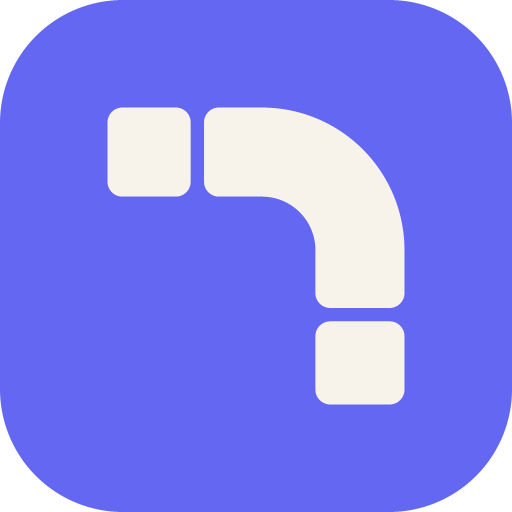
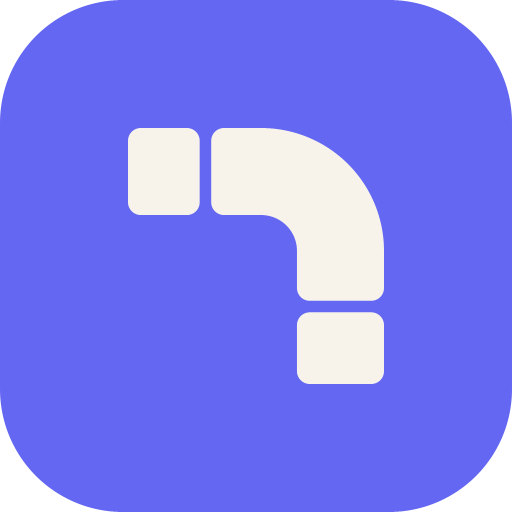
Rotation that holds still, a header that gets out of the way
THE ROTATION ZOOMED BECAUSE THE SCALE WAS BEING RECOMPUTED EVERY FRAME.
`project` fits a scene by measuring what it occupies — right for a static
drawing, wrong for one you can turn. As the object rotated its projected
box changed shape, so the fitted scale changed with it, and the drawing
appeared to zoom and lurch under the finger.

The isometric now supplies its own extent: the object's bounding SPHERE,
which by definition no rotation can change. One scale at every angle, only
the object turns. Asserted — check-draw compares the scale across nine
yaws per fitting and requires a spread under 1e-9.

The price is fill: a 12 m riser sweeps its own length horizontally as it
spins, so the frame has to hold that at all times, and at rest it fills
52% rather than 70%. The fill check now allows the isometric less than the
other two views, with the reason written next to the number. A drawing
that sits still and reads slightly small beats one that lurches.

ROTATION STOPPED HALFWAY because yaw was clamped to a 120° arc and a
single thumb-swipe crossed the whole of it. Yaw wraps now — spinning
about the vertical axis is a turntable and every angle of it is a real
view. Pitch stays bounded and that is deliberate: at 0° the eye is level
and every horizontal face collapses to a line; past 90° the object is
upside down.

THE STICKY HEADER NOW HIDES ON THE WAY DOWN AND RETURNS ON THE WAY UP.
A sticky bar is a standing tax on the viewport — whatever it costs, it
[…]

Changed region(s): [[0.1875, 0.1875, 0.8125, 0.8125]]

diff --git a/lib/draw/iso.ts b/lib/draw/iso.ts
@@ -1,5 +1,14 @@
 import type { Fitting } from "../duct/types";
-import { type Dim, type Pt, type Role, type Scene, type Shape, deg, poly } from "./scene";
+import {
+  type Bounds,
+  type Dim,
+  type Pt,
+  type Role,
+  type Scene,
+  type Shape,
+  deg,
+  poly,
+} from "./scene";
 import type { Label } from "./blueprint";
 
 /* The isometric view — the fitting as an object rather than as a drawing.
@@ -40,14 +49,22 @@ type P3 = [number, number, number];
 export const CAMERA = {
   /** True isometric, and where Reset returns to. */
   home: { yaw: 45, pitch: 30 },
-  yaw: { min: -15, max: 105 },
-  pitch: { min: 8, max: 62 },
+  /* PITCH IS CLAMPED, YAW IS NOT. Yaw was clamped to a 120° arc and a single
+   * thumb-swipe crossed the whole of it, so the object stopped dead halfway
+   * through the gesture — reported as "rotation is stopping halfway". Spinning
+   * about the vertical axis is a turntable and every angle of it is a real
+   * view of the object, so it wraps instead.
+   *
+   * Pitch is a different case and stays bounded: at 0° the eye is level with
+   * the object and every horizontal face collapses to a line, and past 90° you
+   * are looking at it upside down. Neither is a drawing anybody wants. */
+  pitch: { min: 6, max: 84 },
 } as const;
 
 export type Camera = { yaw: number; pitch: number };
 
 export const clampCamera = ({ yaw, pitch }: Camera): Camera => ({
-  yaw: Math.min(CAMERA.yaw.max, Math.max(CAMERA.yaw.min, yaw)),
+  yaw: ((yaw % 360) + 360) % 360,
   pitch: Math.min(CAMERA.pitch.max, Math.max(CAMERA.pitch.min, pitch)),
 });
 
@@ -100,6 +117,9 @@ type Face = { pts: P3[]; role: Role };
  */
 function paint(faces: Face[]): Shape[] {
   const { project, view } = lens;
+  /* Remember what this scene occupies in MODEL space, so `fitOf` can hand
+   * `project` an extent that does not move when the camera does. */
+  lastFaces = faces;
   return faces
     .map((f) => ({
       f,
@@ -109,6 +129,46 @@ function paint(faces: Face[]): Shape[] {
     }))
     .sort((a, b) => a.depth - b.depth)
     .map(({ f }) => poly(f.pts.map(project), f.role));
+}
+
+let lastFaces: Face[] = [];
+
+/**
+ * The object's bounding SPHERE, projected — a fit extent that is the same at
+ * every camera angle.
+ *
+ * A rotation moves points around the model's centre without changing their
+ * distance from it, so every projected point stays inside a circle of that
+ * radius about the projected centre. Fitting to that circle rather than to the
+ * scene's own box is what stops the drawing zooming and jumping while it turns.
+ *
+ * Slightly conservative — the object never quite fills the frame the way a
+ * box-fit would — and that is the price of a scale that holds still.
+ */
+function fitOf(): Bounds | undefined {
+  if (lastFaces.length === 0) return undefined;
+  let minX = Infinity;
+  let minY = Infinity;
+  let minZ = Infinity;
+  let maxX = -Infinity;
+  let maxY = -Infinity;
+  let maxZ = -Infinity;
+  for (const f of lastFaces) {
+    for (const [x, y, z] of f.pts) {
+      if (x < minX) minX = x;
+      if (x > maxX) maxX = x;
+      if (y < minY) minY = y;
+      if (y > maxY) maxY = y;
+      if (z < minZ) minZ = z;
+      if (z > maxZ) maxZ = z;
+    }
+  }
+  if (!Number.isFinite(minX)) return undefined;
+  const centre: P3 = [(minX + maxX) / 2, (minY + maxY) / 2, (minZ + maxZ) / 2];
+  const r =
+    Math.hypot(maxX - minX, maxY - minY, maxZ - minZ) / 2 || Math.max(1e-6, maxX - minX) / 2;
+  const [cx, cy] = lens.project(centre);
+  return { minX: cx - r, maxX: cx + r, minY: cy - r, maxY: cy + r };
 }
 
 const quad = (a: P3, b: P3, c: P3, d: P3, role: Role): Face => ({ pts: [a, b, c, d], role });
@@ -220,6 +280,14 @@ export function isometric(f: Fitting, L: Label, camera: Camera = CAMERA.home): S
   /* Set the lens once, here, before any helper runs. Clamped rather than
    * trusted: the caller is a drag handler and a drag has no natural limits. */
   lens = projector(clampCamera(camera));
+  lastFaces = [];
+  const scene = build(f, L);
+  /* Attach the camera-independent extent AFTER building, because it is
+   * measured from the faces the build produced. */
+  return { ...scene, fit: fitOf() };
+}
+
+function build(f: Fitting, L: Label): Scene {
   switch (f.kind) {
     case "straight": {
       const { w, h, l } = f;

diff --git a/components/AppHeader.tsx b/components/AppHeader.tsx
@@ -1,5 +1,6 @@
 import type { ReactNode } from "react";
 import SiteNav, { type NavKey } from "./SiteNav";
+import StickyHeader from "./StickyHeader";
 import ThemeToggle from "./ThemeToggle";
 import Wordmark from "./Wordmark";
 
@@ -27,38 +28,45 @@ import Wordmark from "./Wordmark";
  * paragraph. This is not "the mark without its tile" — the tile IS the mark's
  * home; see scripts/mark.mjs.
  *
- * NOT STICKY BELOW `lg`. Sticky was given to every page for consistency and on
- * a phone that was the wrong trade: the calculator's header is two rows, and
- * pinning ~110px of a 844px screen for the whole session to keep a project name
- * visible is a bad bargain on the surface with the least room. Desktop keeps it,
- * where a 56px bar against 900px costs nothing.
+ * IT HIDES ON THE WAY DOWN AND COMES BACK ON THE WAY UP — see StickyHeader.
+ * A sticky bar is a standing tax on the viewport, charged at every scroll
+ * position for the whole session, and on the calculator it is two rows. Rather
+ * than choose between keeping the nav and seeing the content, it gets out of
+ * the way while you read and returns on a small upward flick.
  */
 export default function AppHeader({
   current,
   labels,
   right,
   children,
+  held = false,
 }: {
   current: NavKey;
   labels?: Partial<Record<NavKey, string>>;
   right?: ReactNode;
   /** Page-specific chrome, on its own row under the identity row. */
   children?: ReactNode;
+  /** Hold it on screen — a disclosure inside it is open. */
+  held?: boolean;
 }) {
   return (
-    <header className="border-b-[1.5px] border-line bg-page/95 backdrop-blur lg:sticky lg:top-0 lg:z-40 print:hidden">
-      <div className="mx-auto w-full max-w-canvas px-5 md:px-8">
-        {/* Fixed height, so no page's `right` slot can move the logo. */}
-        <div className="flex h-14 items-center gap-x-4">
-          <Wordmark size="sm" compact />
-          <SiteNav current={current} labels={labels} />
-          <div className="ml-auto flex shrink-0 items-center gap-2">
-            {right}
-            <ThemeToggle />
+    <StickyHeader className="print:hidden" held={held}>
+      <header className="border-b-[1.5px] border-line bg-page/95 backdrop-blur">
+        <div className="mx-auto w-full max-w-canvas px-5 md:px-8">
+          {/* Fixed height, so no page's `right` slot can move the logo. 48px
+            * rather than 56: it is one row of 38px artwork and 32px pills, and
+            * every pixel of a sticky bar is charged on every scroll position. */}
+          <div className="flex h-12 items-center gap-x-4">
+            <Wordmark size="sm" compact />
+            <SiteNav current={current} labels={labels} />
+            <div className="ml-auto flex shrink-0 items-center gap-2">
+              {right}
+              <ThemeToggle />
+            </div>
           </div>
+          {children && <div className="border-t-[1.5px] border-rule py-2.5">{children}</div>}
         </div>
-        {children && <div className="border-t-[1.5px] border-rule py-3">{children}</div>}
-      </div>
-    </header>
+      </header>
+    </StickyHeader>
   );
 }

diff --git a/components/StickyHeader.tsx b/components/StickyHeader.tsx
@@ -1,0 +1,81 @@
+"use client";
+
+import { useEffect, useRef, useState } from "react";
+
+/* A header that gets out of the way.
+ *
+ * A sticky header is a standing tax on the viewport: whatever it costs, it
+ * costs on every scroll position for the whole session. On the calculator that
+ * was two rows, and the complaint was fair — "barely viewable the content".
+ *
+ * The usual fixes are both bad. Making it static means losing the project name
+ * and the nav the moment you scroll. Making it shorter helps a little and still
+ * charges rent forever.
+ *
+ * So it hides when you scroll DOWN and comes back the instant you scroll UP —
+ * the pattern every mobile browser uses for its own chrome, for exactly this
+ * reason. Reading costs nothing; wanting the header back costs one small
+ * upward flick rather than a journey to the top of the page.
+ *
+ * WHY A TRANSFORM AND NOT `display`. The header stays in the layout at all
+ * times and only translates out of view, so nothing below it ever reflows.
+ * Toggling its presence would move the whole document by the header's height
+ * twice per scroll direction change, which is the jitter this is meant to end.
+ *
+ * Deliberately not hidden while a disclosure inside it is open — see `held`.
+ */
+export default function StickyHeader({
+  children,
+  className = "",
+  /** Keep it on screen regardless: a menu is open inside it. */
+  held = false,
+}: {
+  children: React.ReactNode;
+  className?: string;
+  held?: boolean;
+}) {
+  const [hidden, setHidden] = useState(false);
+  const lastY = useRef(0);
+
+  useEffect(() => {
+    lastY.current = window.scrollY;
+
+    /* A threshold, because a scroll event fires for a two-pixel wobble and a
+     * header that flickers on trackpad noise is worse than one that never
+     * moves. 8px is below the smallest deliberate scroll and above the noise. */
+    const THRESHOLD = 8;
+    /* Never hide near the top: there is nothing to gain, and the header
+     * disappearing as the page begins reads as a glitch. */
+    const FREE = 120;
+
+    let frame = 0;
+    const onScroll = () => {
+      if (frame) return;
+      frame = requestAnimationFrame(() => {
+        frame = 0;
+        const y = window.scrollY;
+        const dy = y - lastY.current;
+        if (Math.abs(dy) < THRESHOLD) return;
+        lastY.current = y;
+        setHidden(y > FREE && dy > 0);
+      });
+    };
+
+    window.addEventListener("scroll", onScroll, { passive: true });
+    return () => {
+      window.removeEventListener("scroll", onScroll);
+      if (frame) cancelAnimationFrame(frame);
+    };
+  }, []);
+
+  const away = hidden && !held;
+
+  return (
+    <div
+      className={`sticky top-0 z-40 transition-transform duration-200 ease-out ${className}`}
+      style={{ transform: away ? "translateY(-100%)" : "translateY(0)" }}
+    >
+      {children}
+    </div>
+  );
+}

diff --git a/lib/draw/scene.ts b/lib/draw/scene.ts
@@ -60,6 +60,21 @@ export type Scene = {
    * geometry lands on top of a dimension whenever the drawing scales down.
    */
   captions?: { at: Pt; text: string; anchor?: Anchor; dy?: number }[];
+  /**
+   * A fixed extent to fit to, instead of the scene's own bounding box.
+   *
+   * WHY A ROTATING DRAWING NEEDED THIS. `project` normally measures what the
+   * scene occupies and scales it to fill the frame. That is right for a static
+   * drawing and wrong for one you can turn: as the object rotates its
+   * projected box changes shape, so the fitted scale changes with it, and the
+   * drawing appears to zoom in and out and jump about while you drag. Reported
+   * as "while rotating it's getting zoomed and losing shape".
+   *
+   * The isometric supplies its own extent — the object's bounding SPHERE, which
+   * by definition does not change with the camera — so the scale is constant at
+   * every angle and only the object turns.
+   */
+  fit?: Bounds;
 };
 
 export const deg = (d: number) => (d * Math.PI) / 180;
@@ -232,11 +247,16 @@ export function project(
 ): ViewScene {
   const room = Math.max(pad, annotationReach(scene) + 10);
   let box = EMPTY;
-  for (const s of scene.shapes) for (const p of primPoints(s.prim)) box = grow(box, p);
-  for (const d of scene.dims) {
-    if (d.t === "len") box = grow(grow(box, d.a), d.b);
-    if (d.t === "rad" || d.t === "ang") box = grow(box, d.c);
-    if (d.t === "note") box = grow(box, d.at);
+  if (scene.fit) {
+    /* A camera-independent extent, so a rotating drawing keeps one scale. */
+    box = scene.fit;
+  } else {
+    for (const s of scene.shapes) for (const p of primPoints(s.prim)) box = grow(box, p);
+    for (const d of scene.dims) {
+      if (d.t === "len") box = grow(grow(box, d.a), d.b);
+      if (d.t === "rad" || d.t === "ang") box = grow(box, d.c);
+      if (d.t === "note") box = grow(box, d.at);
+    }
   }
   if (!Number.isFinite(box.minX)) box = { minX: 0, minY: 0, maxX: 1, maxY: 1 };
 

diff --git a/components/ProjectSettings.tsx b/components/ProjectSettings.tsx
@@ -123,13 +123,27 @@ function NumberField({
   value: string;
   onChange: (v: string) => void;
 }) {
+  /* THE INPUTS IN A ROW HAVE TO LINE UP, and they did not.
+   *
+   * `hint` is optional and every field's is a different length — "Thickness on
+   * the outside of the duct." against "Sets how many pieces a straight run is,
+   * and so the flange count." — so in a three-column grid each label block was
+   * a different height and each input box started at a different y. Three boxes
+   * on three different lines, which is what was reported.
+   *
+   * The label block now reserves two lines of hint whether or not it has them,
+   * so the inputs align across the row at every width. A fixed reservation
+   * beats `items-end` here because the presets underneath have to line up too,
+   * and they hang off the input rather than off the grid cell. */
   return (
     <div>
-      <label htmlFor={id} className="font-medium text-heading">
-        {label}
-      </label>
-      {hint && <p className="mt-1 text-small text-muted">{hint}</p>}
-      <div className="mt-2 flex items-center gap-2">
+      <div className="min-h-[4.25rem]">
+        <label htmlFor={id} className="font-medium text-heading">
+          {label}
+        </label>
+        {hint && <p className="mt-1 text-small text-muted">{hint}</p>}
+      </div>
+      <div className="flex items-center gap-2">
         <input
           id={id}
           type="text"

diff --git a/lib/brand/logo.ts b/lib/brand/logo.ts
@@ -17,7 +17,7 @@
 
 /** The elbow, in a 100 × 100 box. Always drawn inside `TILE`. */
 export const MARK_PATH =
-  "M37.5 0L52 0A48 48 0 0 1 100 48L100 62.5A5 5 0 0 1 95 67.5L75 67.5A5 5 0 0 1 70 62.5L70 48A18 18 0 0 0 52 30L37.5 30A5 5 0 0 1 32.5 25L32.5 5A5 5 0 0 1 37.5 0ZM5 0L23 0A5 5 0 0 1 28 5L28 25A5 5 0 0 1 23 30L5 30A5 5 0 0 1 0 25L0 5A5 5 0 0 1 5 0ZM75 72L95 72A5 5 0 0 1 100 77L100 95A5 5 0 0 1 95 100L75 100A5 5 0 0 1 70 95L70 77A5 5 0 0 1 75 72Z";
+  "M37.5 0L52 0A48 48 0 0 1 100 48L100 62.5A5 5 0 0 1 95 67.5L71 67.5A5 5 0 0 1 66 62.5L66 48A14 14 0 0 0 52 34L37.5 34A5 5 0 0 1 32.5 29L32.5 5A5 5 0 0 1 37.5 0ZM5 0L23 0A5 5 0 0 1 28 5L28 29A5 5 0 0 1 23 34L5 34A5 5 0 0 1 0 29L0 5A5 5 0 0 1 5 0ZM71 72L95 72A5 5 0 0 1 100 77L100 95A5 5 0 0 1 95 100L71 100A5 5 0 0 1 66 95L66 77A5 5 0 0 1 71 72Z";
 
 /** Pass to `fillRule` / `fill-rule` wherever MARK_PATH is drawn. */
 export const MARK_FILL_RULE = "evenodd" as const;
@@ -31,7 +31,7 @@ export const TILE = {
   /** Corner radius, as a fraction of the tile's side. */
   radius: 0.24,
   /** Inset of the mark inside the tile, as a fraction of the side. */
-  inset: 0.21,
+  inset: 0.25,
   /** The indigo ground. Fixed in both themes — an app icon does not restyle. */
   ground: "#6467F2",
   /** The elbow's colour on that ground. */

diff --git a/components/ProjectBar.tsx b/components/ProjectBar.tsx
@@ -224,7 +224,7 @@ export default function ProjectBar({
    * which is also how /standards and /guide got one at all — it used to be
    * mounted here and therefore existed only on the calculator. */
   return (
-    <AppHeader current="calculator">
+    <AppHeader current="calculator" held={panelOpen}>
       {/* One file input for both layouts. */}
       <input
         ref={fileRef}
